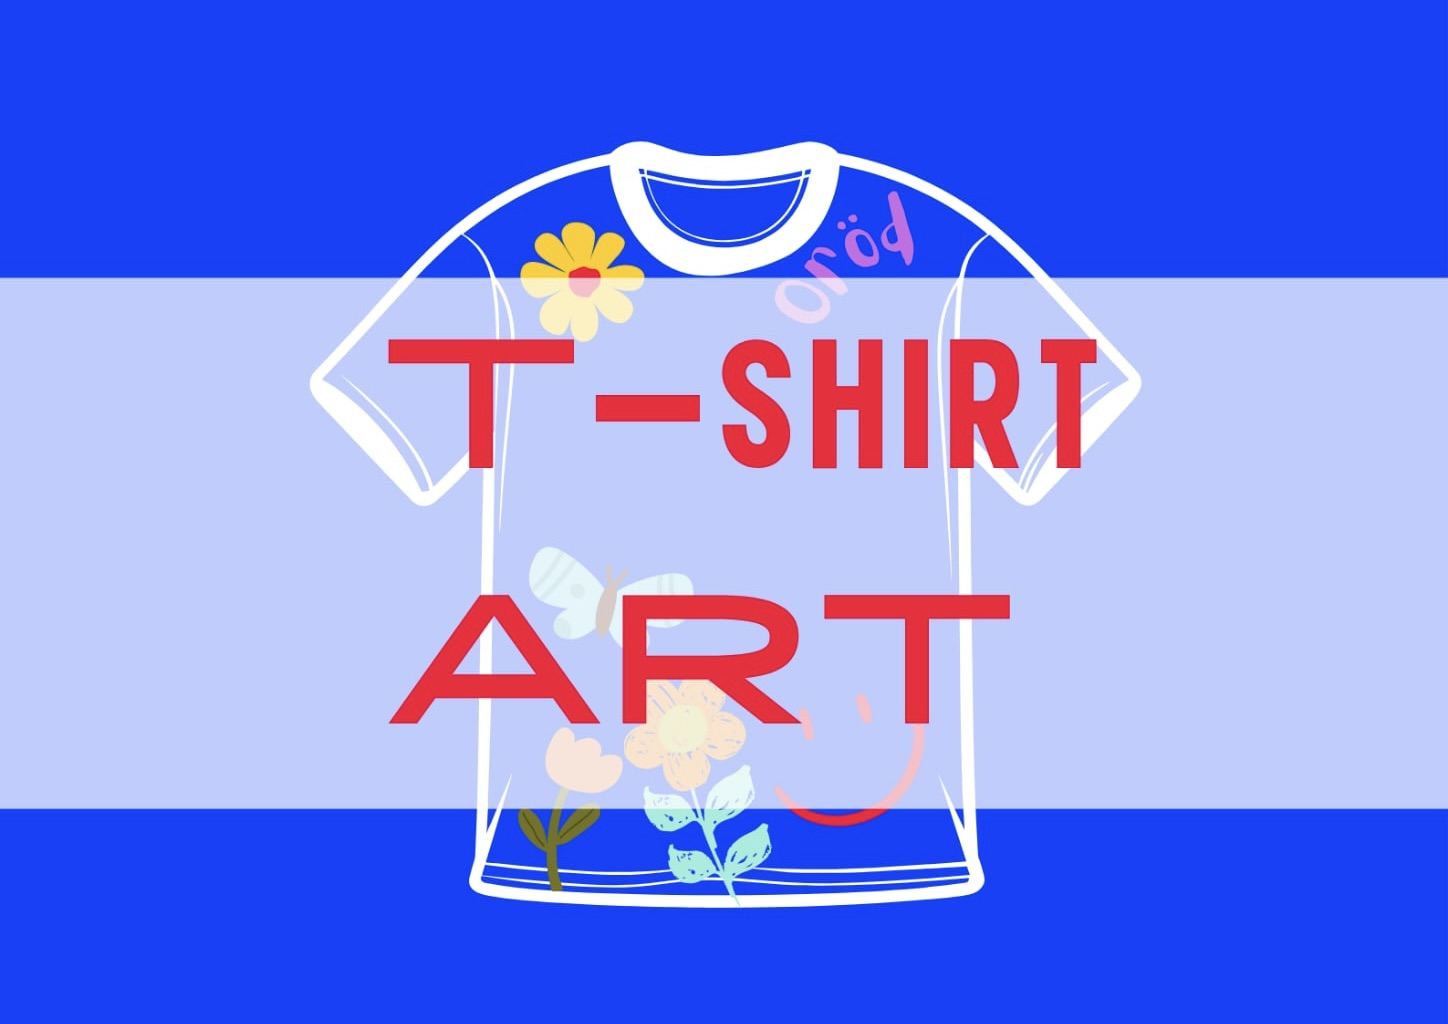
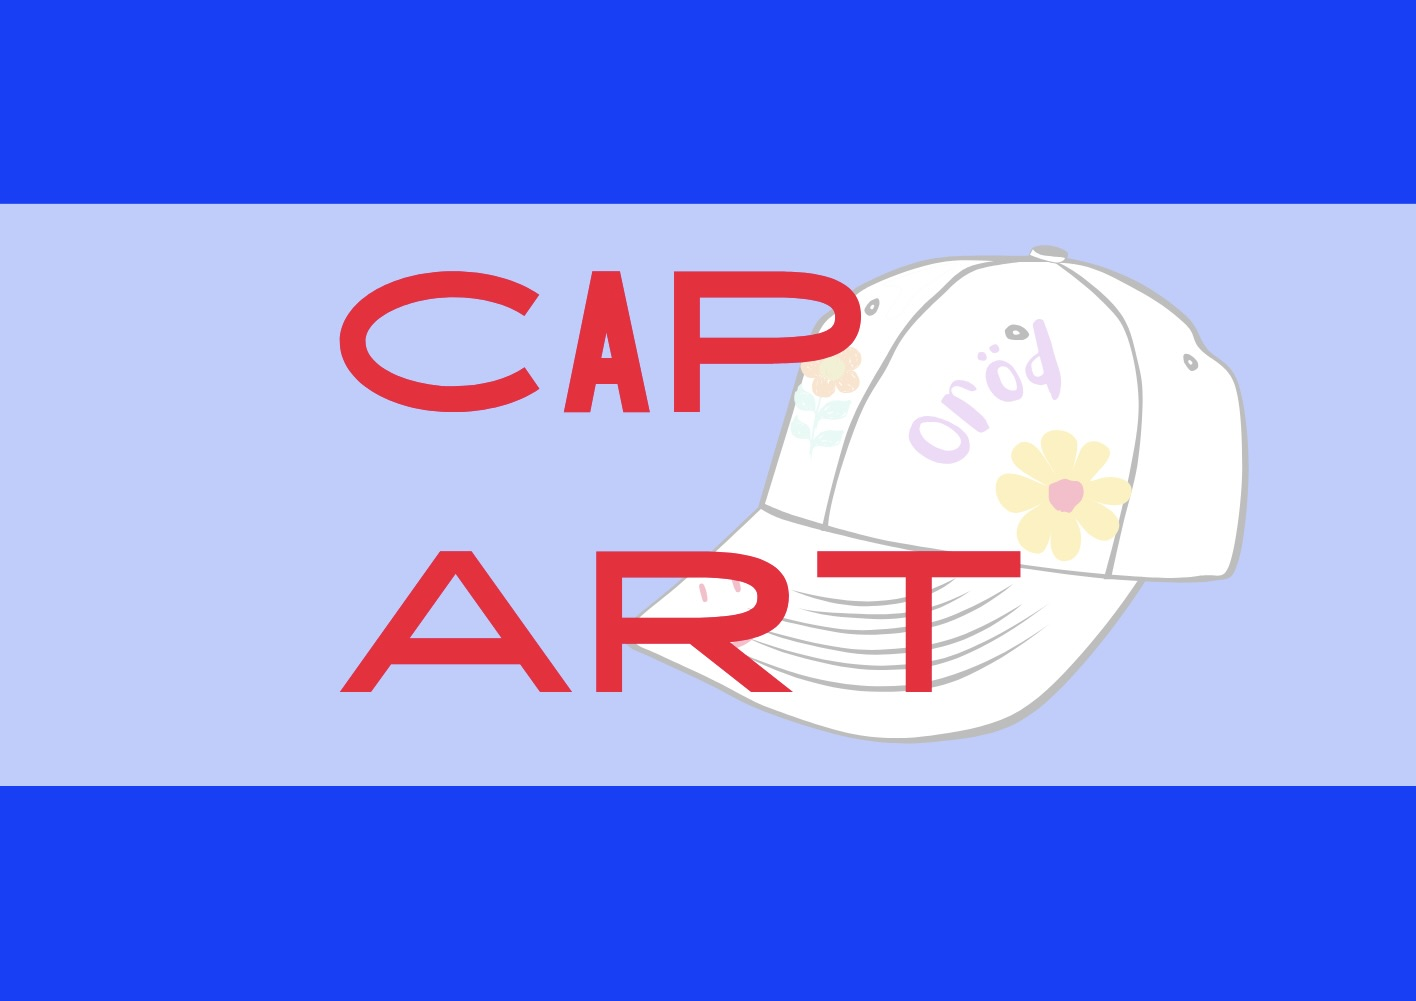
update times and locations

diff --git a/activities/index.html b/activities/index.html
@@ -97,7 +97,17 @@
 
   </div>
 </div>
-  <main>      
+  <main>
+        <!-- Image Gallery Section -->
+    <section class="image-gallery-section">
+      <div class="image-gallery-grid">
+        <div class="gallery-item">
+          <div class="gallery-card">
+            <img src="../assets/schedule.jpeg" alt="Summer Camp Oröd" class="gallery-image">
+          </div>
+        </div>
+      </div>
+    </section>      
       <!-- Filter and Sort Controls -->
       <div class="activity-controls">
         <div class="filter-controls">
@@ -116,17 +126,15 @@
         <!-- JULY 29, 2025 -->
         <div class="activity-item available" data-date="2025-07-29" data-category="wellness" data-name="bastu">
           <div class="activity-card">
-            <img src="../assets/tshirt.jpeg" alt="T-Shirt Art" class="activity-image">
+            <img src="../assets/tshirt.jpeg" alt="Cap Art" class="activity-image">
             <div class="activity-text hidden">
-              <p>Bring any piece of clothing, to use as your canvas. Let your imagination flow and create a fun piece of wearable art.<br><br>
-                What to bring: a piece of clothing <br>
-                Location: TBD 
-              </p>
+              <p>Let your imagination flow and create a fun piece of wearable art. Caps and paint will be provided. <br><br>
+                Location: Windh's House</p> 
             </div>
           </div>
           <div class="activity-content">
-            <h3>T-Shirt Art</h3>
-            <p class="date">AM July 29, 2025</p>
+            <h3>Cap Art</h3>
+            <p class="date">July 29, 2025, 10.30AM</p>
           </div>
         </div>
         <div class="activity-item available" data-date="2025-07-29" data-category="creative" data-name="painting">
@@ -135,12 +143,12 @@
             <div class="activity-text hidden">
               <p>All swedes have played brännboll growing up. This is the swedish version of baseball. In addition to a normal game of brännboll (which is fun on it's own) we will crank up the fun even more by adding water slides between the bases. <br><br>
                   What to bring: Sporty clothes <br>
-                  Location: TBD </p>
+                  Location: By the Water at the Yellow House</p>
             </div>
           </div>
           <div class="activity-content">
             <h3>Swedish Water Slide Baseball</h3>
-            <p class="date">PM July 29, 2025</p>
+            <p class="date">July 29, 2025, 3.00PM</p>
           </div>
         </div>
         <div class="activity-item available" data-date="2025-07-29" data-category="creative" data-name="painting">
@@ -156,7 +164,7 @@
           </div>
           <div class="activity-content">
             <h3>Pirate Party</h3>
-            <p class="date">Late July 29, 2025</p>
+            <p class="date">July 29, 2025, 7.00PM</p>
           </div>
         </div>
 
@@ -172,7 +180,7 @@
           </div>
           <div class="activity-content">
             <h3>Morning Work Out</h3>
-            <p class="date">Early July 30, 2025</p>
+            <p class="date">July 30, 2025, 9.00AM</p>
           </div>
         </div>
         <div class="activity-item available" data-date="2025-07-30" data-category="outdoor" data-name="hiking">
@@ -181,14 +189,14 @@
             <div class="activity-text hidden">
               <p>Come along with us to Multilevel Sipline klätterpark. This is an activity filled with adventure, loads of fun, and maybe some adrenaline. Obstacle course up to 13 meters above the ground. <br><br>
 
-                  What to bring: Comfortable cloths and good shoes, ex trainers. <br><br>
+                  What to bring: Comfortable clothes and good shoes, ex trainers. <br><br>
                   The price for this activity is 400kr for kids and 500kr for adults. <br>
                   If you want to join this activity, contact Nilla at 0705722593 latest July 25th.  </p>
             </div>
           </div>
           <div class="activity-content">
             <h3>Climbing Park</h3>
-            <p class="date">AM July 30, 2025</p>
+            <p class="date">July 30, 2025, 10.30AM</p>
           </div>
         </div>
         <div class="activity-item available" data-date="2025-07-30" data-category="creative" data-name="painting">
@@ -198,27 +206,27 @@
               <p>Let's meet up for an afternoon in, on and around the water! Swim, float, SUP, kajak, canoe, wind surf, pick and chose! For all of you who are interested in sailing, there will be a beginners intro! <br>
                 No need to sign up for this event. Show up of you have a free afternoon. <br><br>  
                 What to bring: swimsuit, towel, sunscreen, water, and a snack! <br>
-                Location: TBD</p>
+                Location: Anna-Liisa's Beach</p>
             </div>
           </div>
           <div class="activity-content">
             <h3>Water Sports</h3>
-            <p class="date">PM July 30, 2025</p>
+            <p class="date">July 30, 2025, 3.00PM</p>
           </div>
         </div>
-        <div class="activity-item available" data-date="2025-07-30" data-category="creative" data-name="painting">
+        <div class="activity-item available" data-date="2025-07-30" data-category="social" data-name="music">
           <div class="activity-card">
-            <img src="../assets/sauna.jpeg" alt="Sauna Skills" class="activity-image">
-            <div class="activity-text hidden">
-              <p>During this sauna hour we will learn everything there is to know about fundamental sauna skills. How to light a fire in the sauna stove, how to bind a vasta, and to prepare sauna makkara. 
-                  Let's meet up by May-Britt's sauna, for an evening of fun! <br><br>
-                  What to bring: towels if you'd like to sauna afterwards <br>
-                  Location: May-Britt's Sauna </p>
+            <img src="../assets/movie.jpeg" alt="Movie Night" class="activity-image">
+              <div class="activity-text hidden">
+              <p>Come to the Windh's house for an open air movie night. Bring your cosiest blanket and something to sit on. There will be popcorn 🍿 <br><br>
+                What to bring: Cosy blanket and something to sit on, we'll order pizzas for the ones who are hungry <br>
+                Location: Windh's House
+              </p>
             </div>
           </div>
           <div class="activity-content">
-            <h3>Sauna Skills</h3>
-            <p class="date">Late July 30, 2025</p>
+            <h3>Movie Night</h3>
+            <p class="date">July 30, 2025, 7.00PM</p>
           </div>
         </div>
 
@@ -230,13 +238,12 @@
               <p>Start your day with a refreshing morning run through the beautiful landscape. We might split up in different pace/distance groups depending on what the crowd wants!
                 <br><br>
                 What to bring: Running shoes <br>
-                Location: TBD 
-              </p>
+                Location: Windh's House</p>
             </div>
           </div>
           <div class="activity-content">
             <h3>Morning Run</h3>
-            <p class="date">Early July 31, 2025</p>
+            <p class="date">July 31, 2025, 9.00AM</p>
           </div>
         </div>
         <div class="activity-item available" data-date="2025-07-31" data-category="creative" data-name="painting">
@@ -245,13 +252,13 @@
             <div class="activity-text hidden">
               <p>We have all had Swedish fika, but do you know how to make it? We will make chocolate balls and cinnamon buns. While we wait for the buns to rise, Jenny will teach us some Swedish hymnens. <br><br>
 
-                What to bring: your sugar addiction <br>
+                What to bring: Your sugar addiction <br>
                 Location: The Yellow house </p>
             </div>
           </div>
           <div class="activity-content">
             <h3>Swedish Fika</h3>
-            <p class="date">AM July 31, 2025</p>
+            <p class="date">July 31, 2025, 10.30AM</p>
           </div>
         </div>
         <div class="activity-item available" data-date="2025-07-31" data-category="creative" data-name="cooking">
@@ -265,22 +272,22 @@
           </div>
           <div class="activity-content">
             <h3>Oröd Wishing Three</h3>
-            <p class="date">PM July 31, 2025</p>
+            <p class="date">July 31, 2025, 3.00PM</p>
           </div>
         </div>
-        <div class="activity-item available" data-date="2025-07-31" data-category="social" data-name="music">
+        <div class="activity-item available" data-date="2025-07-31" data-category="creative" data-name="painting">
           <div class="activity-card">
-            <img src="../assets/movie.jpeg" alt="Movie Night" class="activity-image">
-              <div class="activity-text hidden">
-              <p>Come to the Windh's house for an open air movie night. Bring your cosiest blanket and something to sit on. There will be popcorn 🍿 <br><br>
-                What to bring: Cosy blanket and something to sit on <br>
-                Location: Windh's House
-              </p>
+            <img src="../assets/sauna.jpeg" alt="Sauna Skills" class="activity-image">
+            <div class="activity-text hidden">
+              <p>During this sauna hour we will learn everything there is to know about fundamental sauna skills. How to light a fire in the sauna stove, how to bind a vasta, and to prepare sauna makkara. 
+                  Let's meet up by May-Britt's sauna, for an evening of fun! <br><br>
+                  What to bring: Towels and something to put on the grill. <br>
+                  Location: May-Britt's Sauna </p>
             </div>
           </div>
           <div class="activity-content">
-            <h3>Movie Night</h3>
-            <p class="date">Late July 31, 2025</p>
+            <h3>Sauna Skills</h3>
+            <p class="date">July 31, 2025, 7.00PM</p>
           </div>
         </div>
 
@@ -290,13 +297,13 @@
             <img src="../assets/yoga.jpeg" alt="Morning Yoga" class="activity-image">
             <div class="activity-text hidden">
               <p>A yoga class will be shown on the open air wide screen at Windhs! Join in at 9 o'clock for a great start of the day!  <br><br>
-                  What to bring: Yoga cloths, and a matt if you have one <br>
+                  What to bring: Yoga clothes, and a matt if you have one <br>
                   Location: Windh's house </p>
             </div>
           </div>
           <div class="activity-content">
             <h3>Morning Yoga</h3>
-            <p class="date">AM August 1, 2025</p>
+            <p class="date">August 1, 2025, 9.00AM</p>
           </div>
         </div>
         <div class="activity-item available" data-date="2025-08-01" data-category="creative" data-name="painting">
@@ -305,12 +312,12 @@
             <div class="activity-text hidden">
               <p>We will meet up at the bird house for a walk in the nature. On the walk, pick a stone that you will bring back home. This stone will be the canvas for the painting activity where you will make your very own piece of nature art.  <br><br>
                   What to bring: Comfortable shoes<br>
-                  Location: The Bird House </p>
+                  Location: The Yellow House</p>
             </div>
           </div>
           <div class="activity-content">
             <h3>Nature Painting</h3>
-            <p class="date">AM August 1, 2025</p>
+            <p class="date">August 1, 2025, 10.30AM</p>
           </div>
         </div>
         <div class="activity-item available" data-date="2025-08-01" data-category="creative" data-name="painting">
@@ -319,12 +326,12 @@
             <div class="activity-text hidden">
               <p>An hour of sports, fun and games! <br><br>
                 What to bring: Sport clothes <br>
-                Location: TBD</p>
+                Location: The Yellow House</p>
             </div>
           </div>
           <div class="activity-content">
             <h3>Sports Hour</h3>
-            <p class="date">PM August 1, 2025</p>
+            <p class="date">August 1, 2025, 3.00PM</p>
           </div>
         </div>
         <div class="activity-item available" data-date="2025-08-01" data-category="creative" data-name="painting">
@@ -338,7 +345,7 @@
           </div>
           <div class="activity-content">
             <h3>Cocktail Workshop</h3>
-            <p class="date">Late August 1, 2025</p>
+            <p class="date">August 1, 2025, 7.00PM</p>
           </div>
         </div>
 
@@ -347,26 +354,16 @@
           <div class="activity-card">
             <img src="../assets/kparty.jpeg" alt="Kräftskiva" class="activity-image">
             <div class="activity-text hidden">
-              <p>We will finish this summercamp off strong with a crayfish party! Put on some fancy clothes, your best smile and let's celebrate this beautiful summer in oröd.</p>
+              <p>We will finish this summercamp off strong with a crayfish party! Put on some fancy clothes, your best smile and let's celebrate this beautiful summer in oröd.<br>
+                  Location: Bengt's House </p>
             </div>
           </div>
           <div class="activity-content">
             <h3>Kräftskiva</h3>
-            <p class="date">Late August 2, 2025</p>
+            <p class="date">August 2, 2025, 7.00PM</p>
           </div>
         </div>
 
-      </div>
-    </section>
-    
-    <!-- Image Gallery Section -->
-    <section class="image-gallery-section">
-      <div class="image-gallery-grid">
-        <div class="gallery-item">
-          <div class="gallery-card">
-            <img src="../assets/schedule2.jpeg" alt="Summer Camp Oröd" class="gallery-image">
-          </div>
-        </div>
       </div>
     </section>
   </main>

diff --git a/styles.css b/styles.css
@@ -335,10 +335,10 @@ main {
   padding: 0;            /* removed padding so images fill entire square */
 }
 
-.activity-card:nth-child(1) { background: #EB7660; }
+.activity-card:nth-child(1) { background: var(--accent-color); }
 .activity-card:nth-child(2) { background: var(--background-color); }
 .activity-card:nth-child(3) { background: var(--background-color); }
-.activity-card:nth-child(4) { background: #F8B5A2; }
+.activity-card:nth-child(4) { background: var(--accent-color); }
 .activity-card .see-btn {
   position: absolute;
   bottom: -20px;
